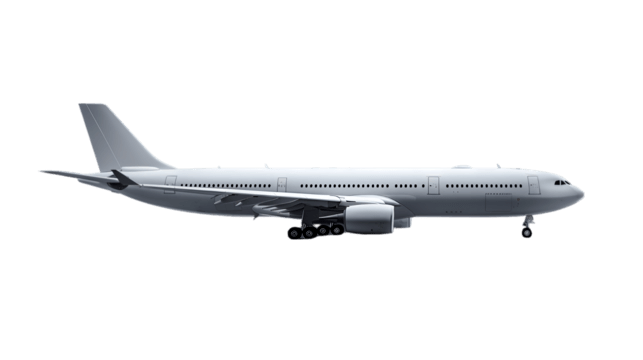
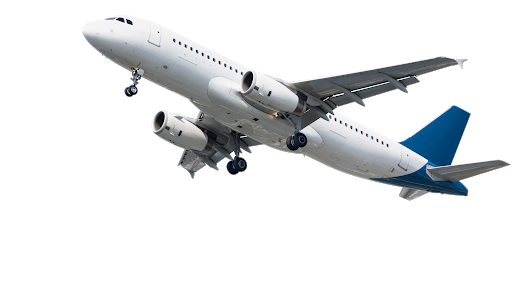
style edits

Changed region(s): [[0.0625, 0.09, 1.0, 0.69], [0.2188, 0.06, 0.2812, 0.09]]

diff --git a/assets/style.css b/assets/style.css
@@ -1,7 +1,8 @@
 :root {
-    --navy: #103756;
-    --horizon: #2f80a9;
-    --gold: #f2a93b;
+    --navy: #1a56c9;
+    --horizon: #4f8ff5;
+    --sky-light: #eaf4ff;
+    --gold: #ff9f45;
     --cloud: #f6f9fc;
     --ink: #14202b;
     --slate: #5b6b79;
@@ -28,13 +29,21 @@ h1, h2, h3, h4, h5, h6 {
     font-family: 'Poppins', sans-serif;
     font-weight: 700;
     letter-spacing: 0.01em;
+    text-transform: uppercase;
 }
 .navbar .nav-link {
-    font-weight: 500;
+    background-color: var(--gold);
+    color: #fff !important;
+    font-weight: 600;
+    border-radius: 999px;
+    padding: 0.45rem 1.25rem !important;
+    margin: 0 0.3rem;
+    transition: background-color 0.15s ease, color 0.15s ease;
 }
 .navbar .nav-link.active,
 .navbar .nav-link:hover {
-    color: var(--gold) !important;
+    background-color: #fff;
+    color: var(--navy) !important;
 }
 
 /* ---- Page title accent underline ----
@@ -85,7 +94,7 @@ h2::after {
 .rc-slider-handle:active,
 .rc-slider-handle-dragging {
     border-color: var(--gold) !important;
-    box-shadow: 0 0 0 4px rgba(242, 169, 59, 0.2) !important;
+    box-shadow: 0 0 0 4px rgba(255, 159, 69, 0.2) !important;
 }
 .rc-slider-dot-active {
     border-color: var(--horizon);
@@ -97,10 +106,11 @@ h2::after {
 
 /* ---- Landing page hero ---- */
 .hero-landing {
-    background: linear-gradient(100deg, var(--navy) 0%, var(--horizon) 100%);
-    border-radius: 14px;
-    padding: 3rem 2rem;
-    margin-top: 1.5rem;
+    background: linear-gradient(135deg, var(--navy) 0%, var(--horizon) 55%, var(--sky-light) 100%);
+    border-radius: 14px 14px 50% 50% / 14px 14px 110px 110px;
+    padding: 3rem 2rem 6.5rem;
+    margin-top: 1rem;
+    min-height: 65vh;
     display: flex;
     align-items: center;
     justify-content: space-between;
@@ -111,28 +121,56 @@ h2::after {
 .hero-text {
     color: #fff;
     max-width: 480px;
+    align-self: center;
 }
 .hero-text h1 {
     color: #fff;
-    font-size: 2.5rem;
+    text-transform: uppercase;
+    font-size: clamp(2rem, 5vw, 3.25rem);
+    line-height: 1.05;
+    letter-spacing: 0.01em;
     margin-bottom: 0.75rem;
 }
 .hero-text p {
-    color: rgba(255, 255, 255, 0.85);
+    color: rgba(255, 255, 255, 0.9);
     font-size: 1.05rem;
 }
 .hero-plane {
-    max-width: 380px;
-    width: 100%;
+    max-width: 460px;
+    max-height: 320px;
+    width: auto;
     height: auto;
+    object-fit: contain;
+    align-self: center;
     filter: drop-shadow(0 12px 20px rgba(0, 0, 0, 0.25));
 }
+
+/* Orange pill CTA button (dbc.Button color="warning") */
+.btn-warning {
+    background-color: var(--gold) !important;
+    border-color: var(--gold) !important;
+    color: #fff !important;
+    border-radius: 999px !important;
+    font-weight: 600;
+    padding: 0.6rem 1.6rem;
+}
+.btn-warning:hover {
+    background-color: #fff !important;
+    color: var(--navy) !important;
+    border-color: var(--gold) !important;
+}
+
 @media (max-width: 768px) {
     .hero-landing {
         flex-direction: column;
         text-align: center;
+        border-radius: 14px 14px 40% 40% / 14px 14px 60px 60px;
     }
     .hero-text {
         max-width: 100%;
+    }
+    .hero-plane {
+        max-width: 280px;
+        max-height: 220px;
     }
 }

diff --git a/pages/overview.py b/pages/overview.py
@@ -28,7 +28,7 @@ MAX_YEAR = int(df["year"].max())
 
 layout = dbc.Container(
     [
-        html.H2("Which states have the worst flight delays?"),
+        html.H2("Where are the Worst Flight Delays?"),
         html.P(
             "Arrival delay rate = share of flights that landed 15+ minutes late, "
             "aggregated by the state the destination airport is in. "

diff --git a/pages/home.py b/pages/home.py
@@ -34,7 +34,7 @@ layout = dbc.Container(
                     ],
                     className="hero-text",
                 ),
-                html.Img(src="/assets/plane.png", className="hero-plane"),
+                html.Img(src="/assets/plane3.png", className="hero-plane"),
             ],
             className="hero-landing",
         ),

diff --git a/pages/comparison.py b/pages/comparison.py
@@ -32,7 +32,7 @@ METRIC_MAP = {
 
 layout = dbc.Container(
     [
-        html.H2("Which carrier should you book at this airport?"),
+        html.H2("Which Carrier Should You Fly?"),
         dbc.Row(
             [
                 dbc.Col(
